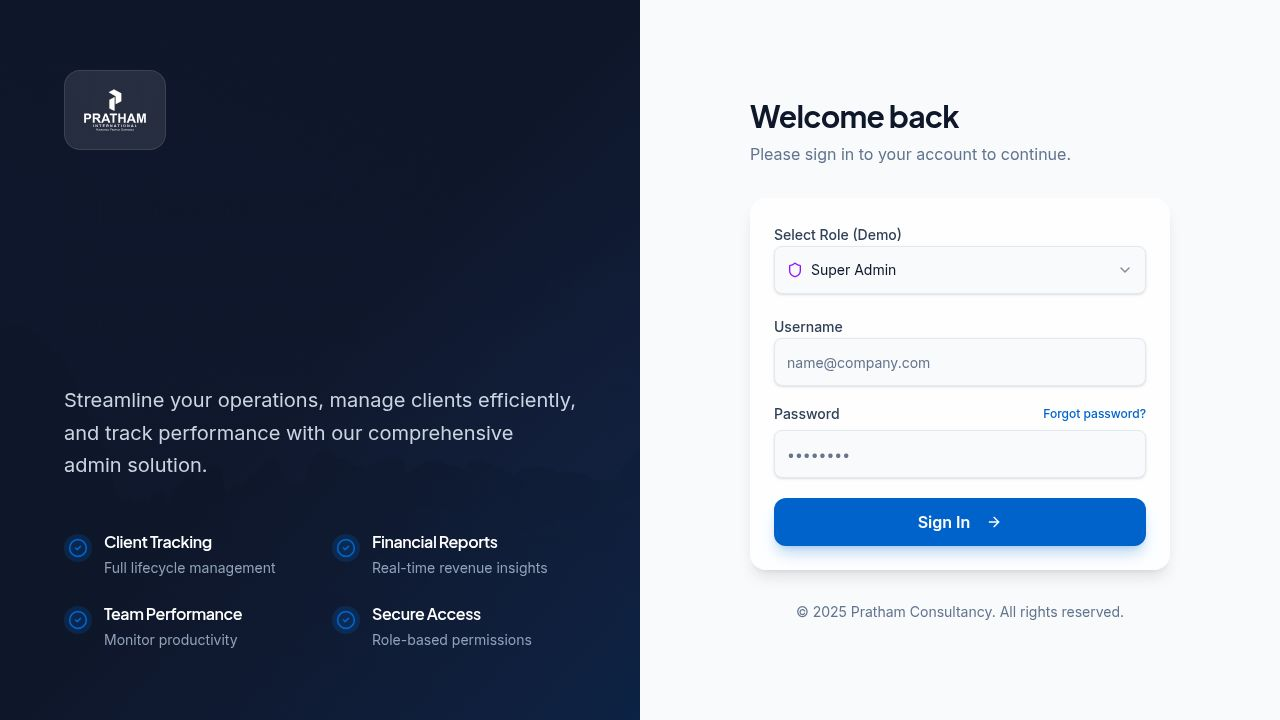
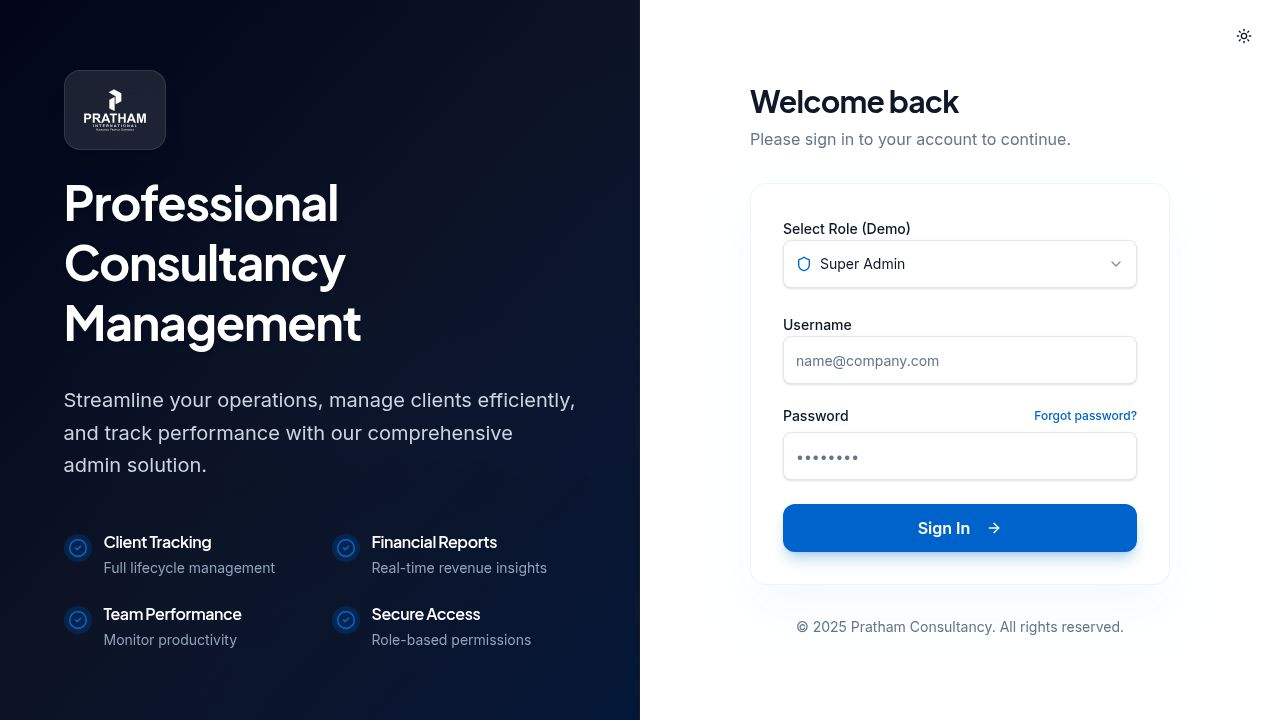
Update login page to support theme switching and persistence
Refactor client/src/pages/Login.tsx to integrate ModeToggle component, apply theme-aware background colors, and persist theme preference via localStorage.

Replit-Commit-Author: Agent
Replit-Commit-Session-Id: fa2dc312-67b3-4d93-a2a4-7efdcbc49e1c
Replit-Commit-Checkpoint-Type: full_checkpoint
Replit-Commit-Event-Id: 650cfc94-f5ad-4ca0-9ed6-daeda1292035
Replit-Commit-Screenshot-Url: https://storage.googleapis.com/screenshot-production-us-central1/d34340ca-b7ee-49f9-b0bb-de379550b5c3/fa2dc312-67b3-4d93-a2a4-7efdcbc49e1c/gihJpVb
Replit-Helium-Checkpoint-Created: true

diff --git a/client/src/pages/Login.tsx b/client/src/pages/Login.tsx
@@ -4,10 +4,6 @@ import { Button } from "@/components/ui/button";
 import {
   Card,
   CardContent,
-  CardDescription,
-  CardFooter,
-  CardHeader,
-  CardTitle,
 } from "@/components/ui/card";
 import {
   Select,
@@ -18,8 +14,9 @@ import {
 } from "@/components/ui/select";
 import { Input } from "@/components/ui/input";
 import { Label } from "@/components/ui/label";
-import { Lock, Shield, Users, UserCog, Briefcase, Crown, ArrowRight, CheckCircle2 } from "lucide-react";
+import { Shield, Users, Briefcase, Crown, ArrowRight, CheckCircle2 } from "lucide-react";
 import logoUrl from "@/assets/images/Pratham Logo.svg";
+import { ModeToggle } from "@/components/mode-toggle";
 
 export default function Login() {
   const { login, isLoading } = useAuth();
@@ -33,18 +30,22 @@ export default function Login() {
   };
 
   return (
-    <div className="min-h-screen w-full flex bg-slate-50">
+    <div className="min-h-screen w-full flex bg-background transition-colors duration-300">
+        <div className="absolute top-4 right-4 z-50">
+            <ModeToggle />
+        </div>
+
       {/* Left Panel - Branding */}
-      <div className="hidden lg:flex w-1/2 bg-slate-900 relative overflow-hidden items-center justify-center p-12">
+      <div className="hidden lg:flex w-1/2 bg-slate-950 relative overflow-hidden items-center justify-center p-12 border-r border-border/10">
         <div className="absolute inset-0 bg-[url('https://images.unsplash.com/photo-1497294815431-9365093b7331?ixlib=rb-1.2.1&auto=format&fit=crop&w=1950&q=80')] bg-cover bg-center opacity-20 mix-blend-overlay" />
-        <div className="absolute inset-0 bg-gradient-to-br from-slate-900/90 via-slate-900/80 to-primary/20" />
+        <div className="absolute inset-0 bg-gradient-to-br from-slate-950/90 via-slate-900/80 to-primary/20" />
         
         <div className="relative z-10 max-w-lg text-white space-y-8">
-            <div className="h-20 w-auto bg-white/10 backdrop-blur-md p-4 rounded-xl inline-block mb-4 border border-white/10">
+            <div className="h-20 w-auto bg-white/10 backdrop-blur-md p-4 rounded-xl inline-block mb-4 border border-white/10 shadow-xl">
                 <img src={logoUrl} alt="Logo" className="h-full w-auto brightness-0 invert" />
             </div>
             
-            <h1 className="text-5xl font-bold tracking-tight leading-tight">
+            <h1 className="text-5xl font-bold tracking-tight leading-tight text-white drop-shadow-sm">
                 Professional Consultancy Management
             </h1>
             
@@ -53,8 +54,8 @@ export default function Login() {
             </p>
 
             <div className="grid grid-cols-2 gap-6 pt-4">
-                <div className="flex items-start gap-3">
-                    <div className="mt-1 p-1 bg-primary/20 rounded-full">
+                <div className="flex items-start gap-3 group">
+                    <div className="mt-1 p-1 bg-primary/20 rounded-full group-hover:bg-primary/30 transition-colors">
                         <CheckCircle2 className="w-5 h-5 text-primary" />
                     </div>
                     <div>
@@ -62,8 +63,8 @@ export default function Login() {
                         <p className="text-sm text-slate-400 mt-1">Full lifecycle management</p>
                     </div>
                 </div>
-                <div className="flex items-start gap-3">
-                    <div className="mt-1 p-1 bg-primary/20 rounded-full">
+                <div className="flex items-start gap-3 group">
+                    <div className="mt-1 p-1 bg-primary/20 rounded-full group-hover:bg-primary/30 transition-colors">
                         <CheckCircle2 className="w-5 h-5 text-primary" />
                     </div>
                     <div>
@@ -71,8 +72,8 @@ export default function Login() {
                         <p className="text-sm text-slate-400 mt-1">Real-time revenue insights</p>
                     </div>
                 </div>
-                <div className="flex items-start gap-3">
-                    <div className="mt-1 p-1 bg-primary/20 rounded-full">
+                <div className="flex items-start gap-3 group">
+                    <div className="mt-1 p-1 bg-primary/20 rounded-full group-hover:bg-primary/30 transition-colors">
                         <CheckCircle2 className="w-5 h-5 text-primary" />
                     </div>
                     <div>
@@ -80,8 +81,8 @@ export default function Login() {
                         <p className="text-sm text-slate-400 mt-1">Monitor productivity</p>
                     </div>
                 </div>
-                <div className="flex items-start gap-3">
-                    <div className="mt-1 p-1 bg-primary/20 rounded-full">
+                <div className="flex items-start gap-3 group">
+                    <div className="mt-1 p-1 bg-primary/20 rounded-full group-hover:bg-primary/30 transition-colors">
                         <CheckCircle2 className="w-5 h-5 text-primary" />
                     </div>
                     <div>
@@ -94,47 +95,47 @@ export default function Login() {
       </div>
 
       {/* Right Panel - Login Form */}
-      <div className="flex-1 flex items-center justify-center p-8 lg:p-12">
+      <div className="flex-1 flex items-center justify-center p-8 lg:p-12 relative">
         <div className="w-full max-w-[420px] space-y-8">
             <div className="text-center lg:text-left space-y-2">
-                <h2 className="text-3xl font-bold tracking-tight text-slate-900">Welcome back</h2>
-                <p className="text-slate-500">Please sign in to your account to continue.</p>
+                <h2 className="text-3xl font-bold tracking-tight text-foreground">Welcome back</h2>
+                <p className="text-muted-foreground">Please sign in to your account to continue.</p>
             </div>
 
-            <Card className="border-none shadow-floating bg-white/80 backdrop-blur-sm">
-                <CardContent className="pt-6 pb-6">
-                    <form onSubmit={handleLogin} className="space-y-5">
+            <Card className="border border-border/50 shadow-2xl shadow-primary/5 bg-card/50 backdrop-blur-sm">
+                <CardContent className="pt-8 pb-8 px-8">
+                    <form onSubmit={handleLogin} className="space-y-6">
                         <div className="space-y-2">
-                            <Label htmlFor="role" className="text-slate-700 font-medium">Select Role (Demo)</Label>
+                            <Label htmlFor="role" className="text-foreground font-medium">Select Role (Demo)</Label>
                             <Select
                                 value={selectedRole}
                                 onValueChange={(value) => setSelectedRole(value as UserRole)}
                             >
-                                <SelectTrigger className="h-12 bg-slate-50 border-slate-200 focus:ring-primary/20 focus:border-primary">
+                                <SelectTrigger className="h-12 bg-background border-input focus:ring-primary/20 focus:border-primary text-foreground">
                                     <SelectValue placeholder="Select a role" />
                                 </SelectTrigger>
                                 <SelectContent>
-                                    <SelectItem value="superadmin" className="focus:bg-purple-50 focus:text-purple-700">
+                                    <SelectItem value="superadmin" className="focus:bg-primary/10">
                                         <div className="flex items-center gap-2">
-                                            <Shield className="h-4 w-4 text-purple-600" />
+                                            <Shield className="h-4 w-4 text-primary" />
                                             <span>Super Admin</span>
                                         </div>
                                     </SelectItem>
-                                    <SelectItem value="director" className="focus:bg-indigo-50 focus:text-indigo-700">
+                                    <SelectItem value="director" className="focus:bg-primary/10">
                                         <div className="flex items-center gap-2">
-                                            <Crown className="h-4 w-4 text-indigo-600" />
+                                            <Crown className="h-4 w-4 text-primary" />
                                             <span>Director</span>
                                         </div>
                                     </SelectItem>
-                                    <SelectItem value="manager" className="focus:bg-blue-50 focus:text-blue-700">
+                                    <SelectItem value="manager" className="focus:bg-primary/10">
                                         <div className="flex items-center gap-2">
-                                            <Users className="h-4 w-4 text-blue-600" />
+                                            <Users className="h-4 w-4 text-primary" />
                                             <span>Manager</span>
                                         </div>
                                     </SelectItem>
-                                    <SelectItem value="counsellor" className="focus:bg-emerald-50 focus:text-emerald-700">
+                                    <SelectItem value="counsellor" className="focus:bg-primary/10">
                                         <div className="flex items-center gap-2">
-                                            <Briefcase className="h-4 w-4 text-green-600" />
+                                            <Briefcase className="h-4 w-4 text-primary" />
                                             <span>Counsellor</span>
                                         </div>
                                     </SelectItem>
@@ -143,19 +144,19 @@ export default function Login() {
                         </div>
 
                         <div className="space-y-2">
-                            <Label htmlFor="username" className="text-slate-700 font-medium">Username</Label>
+                            <Label htmlFor="username" className="text-foreground font-medium">Username</Label>
                             <Input
                                 id="username"
                                 placeholder="name@company.com"
                                 value={username}
                                 onChange={(e) => setUsername(e.target.value)}
-                                className="h-12 bg-slate-50 border-slate-200 focus:ring-primary/20 focus:border-primary"
+                                className="h-12 bg-background border-input focus:ring-primary/20 focus:border-primary text-foreground placeholder:text-muted-foreground"
                             />
                         </div>
                         
                         <div className="space-y-2">
                             <div className="flex items-center justify-between">
-                                <Label htmlFor="password" className="text-slate-700 font-medium">Password</Label>
+                                <Label htmlFor="password" className="text-foreground font-medium">Password</Label>
                                 <a href="#" className="text-xs font-medium text-primary hover:text-primary/80">Forgot password?</a>
                             </div>
                             <Input
@@ -164,7 +165,7 @@ export default function Login() {
                                 placeholder="••••••••"
                                 value={password}
                                 onChange={(e) => setPassword(e.target.value)}
-                                className="h-12 bg-slate-50 border-slate-200 focus:ring-primary/20 focus:border-primary"
+                                className="h-12 bg-background border-input focus:ring-primary/20 focus:border-primary text-foreground placeholder:text-muted-foreground"
                             />
                         </div>
 
@@ -180,7 +181,7 @@ export default function Login() {
                 </CardContent>
             </Card>
 
-            <p className="text-center text-sm text-slate-500">
+            <p className="text-center text-sm text-muted-foreground">
                 &copy; {new Date().getFullYear()} Pratham Consultancy. All rights reserved.
             </p>
         </div>
